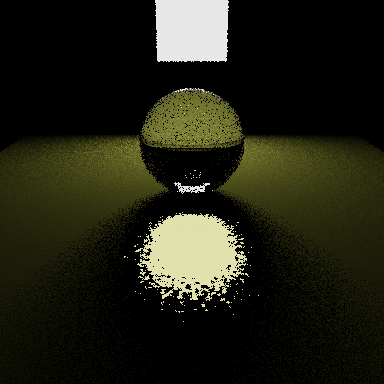
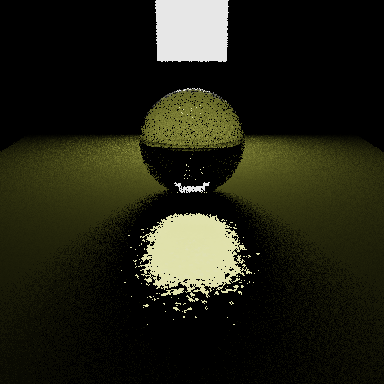
Added some comments

diff --git a/pathtracer.cpp b/pathtracer.cpp
@@ -13,7 +13,7 @@
 using namespace Eigen;
 
 bool doStylizedCaustics = true;
-bool useGreedyMethod = true;
+bool useGreedyMethod = false;
 
 const double albedo = 0.75;
 PathTracer::PathTracer(Scene *scene,
@@ -79,6 +79,7 @@ PathTracer::PathTracer(Scene *scene,
                 B[i] = result;
             }
             stylizedCaustics.setFinalResults(B);
+
             //For Yutang
             // Note from Yingtong: I didn't declare B_rest above, stylizedCaustics.finalResults contains all n points. I can modify the code if it's not convenient.
             //Now you have std::vector<Eigen::Vector2f> B_sample, containing 300 points
@@ -87,7 +88,7 @@ PathTracer::PathTracer(Scene *scene,
             // Note from Yingtong: Guess refinement is better to be a member function of class StylizedCaustics, since all data is stored in StylizedCaustics.
             // or make the stylizedCaustics a parameter of the function
 
-            // To show the final result, go to move() function in stylizedcaustics.cpp, uncomment the final results code
+            // To show the final result, go to move() function in stylizedcaustics.cpp, uncomment the final results code, and comment the results after tps
 
         }
     }
